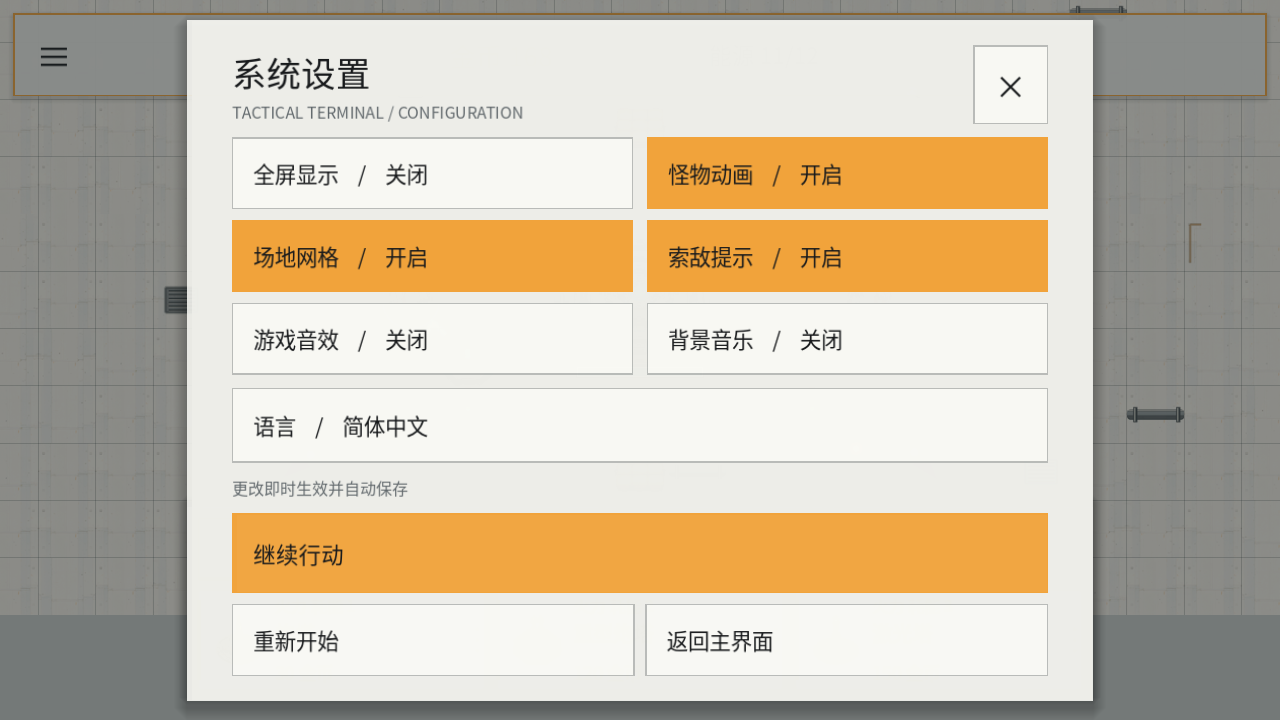
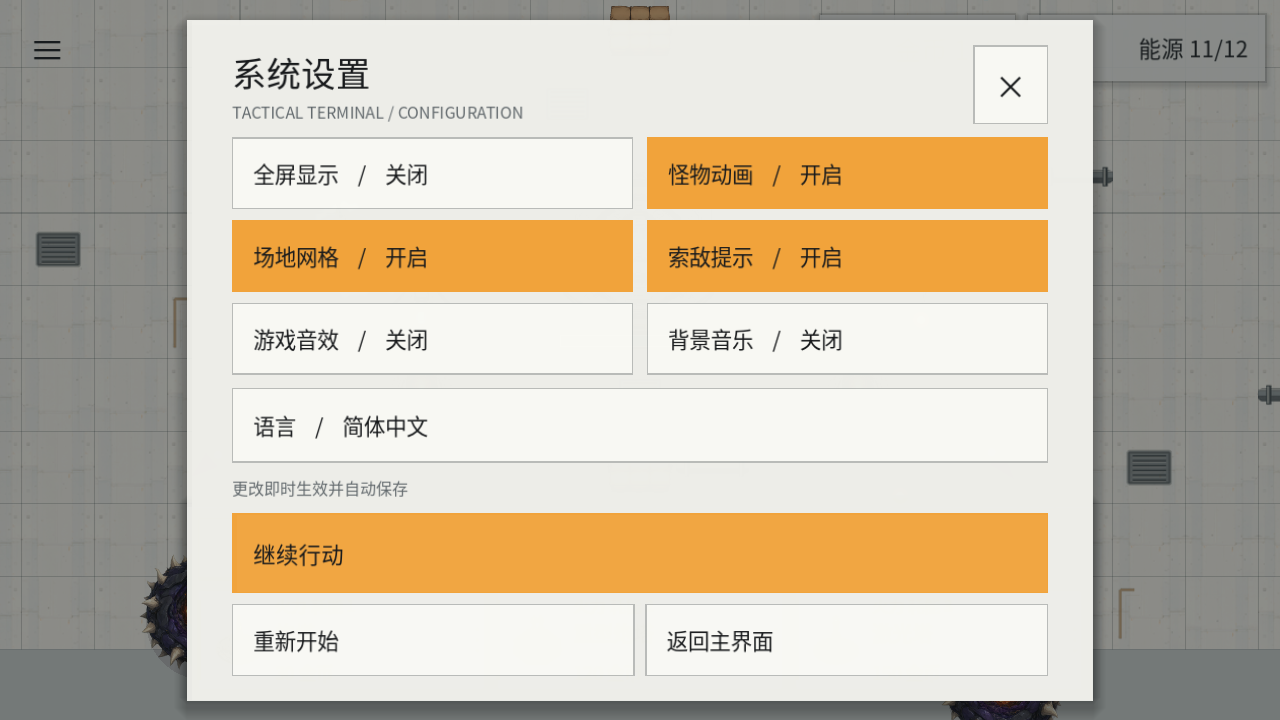
refactor: 精简战斗顶部资源栏

diff --git a/docs/ui_prefabs_and_events.md b/docs/ui_prefabs_and_events.md
@@ -20,7 +20,7 @@
 
 主要区域的自适应位置仍集中在：
 
-- `scripts/responsive_layout.gd`：HUD、战场、底部商店、详情的可用矩形。
+- `scripts/responsive_layout.gd`：左上角菜单、右侧资源格、战场、底部商店和详情的可用矩形。
 - `scripts/ui_metrics.gd`：横屏基准、触控尺寸和全局 UI 尺寸。
 
 ## 事件中心
